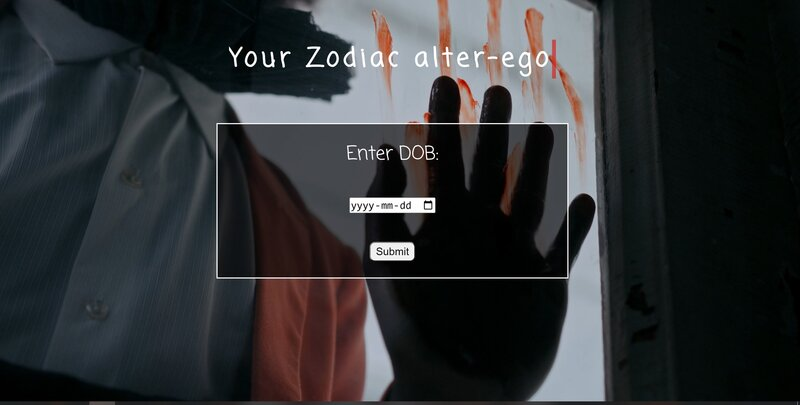
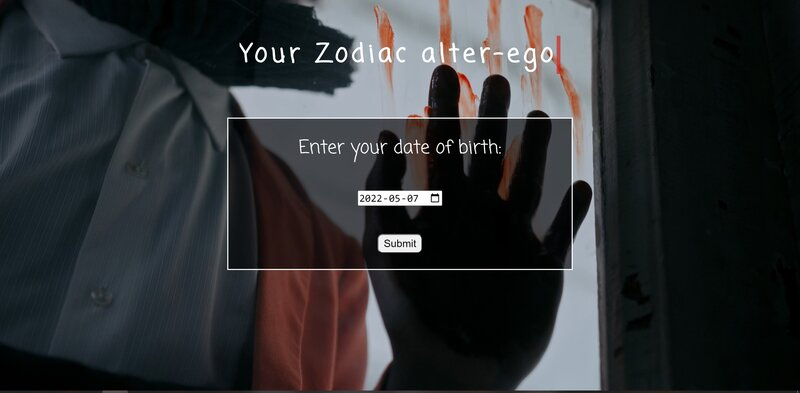
still need to fix home responsiveness

diff --git a/index.html b/index.html
@@ -13,10 +13,15 @@
       rel="stylesheet"
     />
 
-    <!-- box icons  : use Box Icons or Font Awesome-->
-    <!-- <link href='https://unpkg.com/boxicons@2.0.9/css/boxicons.min.css' rel='stylesheet'> -->
-    <script src="https://use.fontawesome.com/a375b7298d.js"></script>
-
+    <!-- Font Awesome -->
+    <link
+      rel="stylesheet"
+      href="https://cdnjs.cloudflare.com/ajax/libs/font-awesome/6.1.1/css/all.min.css"
+      integrity="sha512-KfkfwYDsLkIlwQp6LFnl8zNdLGxu9YAA1QvwINks4PhcElQSvqcyVLLD9aMhXd13uQjoXtEKNosOWaZqXgel0g=="
+      crossorigin="anonymous"
+      referrerpolicy="no-referrer"
+    />
+    <!-- Jquery and OwlCarousel  -->
     <link rel="stylesheet" href="./css/main.css" />
     <script src="https://code.jquery.com/jquery-3.5.1.js"></script>
     <script src="https://cdnjs.cloudflare.com/ajax/libs/OwlCarousel2/2.3.4/owl.carousel.min.js"></script>
@@ -68,21 +73,7 @@
                     ><i class="fab fa-linkedin"></i
                   ></a>
                 </li>
-                <li>
-                  <a href="#"
-                    ><i class="fa fa-facebook-official" aria-hidden="true"></i
-                  ></a>
-                </li>
-                <li>
-                  <a href="https://www.instagram.com/whatthefoof/?hl=en"
-                    ><i class="fab fa-instagram-square"></i
-                  ></a>
-                </li>
-                <li>
-                  <a href="https://pin.it/1WA0lvC"
-                    ><i class="fab fa-pinterest-square"></i
-                  ></a>
-                </li>
+                <!-- <li class="email active">email</li> -->
               </ul>
             </div>
           </h1>
@@ -191,10 +182,6 @@
         <div class="projects__container">
           <div class="projects__text">
             <h2 class="projects__title">Projects</h2>
-            <!-- <p>
-              Here I include a sample of the projects I have been working on
-              during my time as a Frontend student at Hyper Island student time.
-            </p> -->
           </div>
 
           <div class="wrapper">
@@ -204,14 +191,23 @@
                   <img src="img/p1.jpg" alt="project" />
                 </div>
                 <div class="content">
-                  <div class="title">Artist landing page</div>
-                  <div class="sub-title">My first take on a landing page.</div>
+                  <!-- <div class="title">Artist landing page</div> -->
+                  <div class="sub-title">Artist landing page</div>
                   <p>
-                    Lorem ipsum dolor, sit amet consectetur adipisicing elit.
-                    Quia distinctio vero asperiores delectus at tempora, quas
-                    architecto dicta ducimus placeat.
+                    For my first real project I made a minimal website with
+                    HTML, CSS and a few lines of JS for an imagined artist
+                    portfolio/ shop.
                   </p>
-                  <div class="btn"><button>Read more</button></div>
+                  <div class="btns">
+                    <a href="https://hi-01-artist-page.netlify.app/" class="btn"
+                      ><button>Preview</button></a
+                    >
+                    <a
+                      href="https://github.com/whatthefoobar/hi_01_artist_page"
+                      class="btn"
+                      ><button>Code</button></a
+                    >
+                  </div>
                 </div>
               </div>
 
@@ -220,16 +216,23 @@
                   <img src="img/p2.jpg" alt="project" />
                 </div>
                 <div class="content">
-                  <div class="title">Zodiac quizz app</div>
-                  <div class="sub-title">
-                    Deeper dive into Javascript and localStorage
-                  </div>
+                  <!-- <div class="title">Zodiac quiz app</div> -->
+                  <div class="sub-title">Zodiac app</div>
                   <p>
                     A form app that takes in your birthday and returns your age
                     in years months days , your zodiac sign and a random serial
                     killer that shares the same zodiac as you.
                   </p>
-                  <div class="btn"><button>Read more</button></div>
+                  <div class="btns">
+                    <a href="https://killer-quiz.netlify.app/" class="btn"
+                      ><button>Preview</button></a
+                    >
+                    <a
+                      href="https://github.com/whatthefoobar/killer-quiz-reuploaded"
+                      class="btn"
+                      ><button>Code</button></a
+                    >
+                  </div>
                 </div>
               </div>
 
@@ -238,10 +241,26 @@
                   <img src="img/p3.jpg" alt="project" />
                 </div>
                 <div class="content">
-                  <div class="title">News app</div>
+                  <!-- <div class="title">News app</div> -->
                   <div class="sub-title">React news app</div>
-                  <p>React news app project using New York Times Api.</p>
-                  <div class="btn"><button>Read more</button></div>
+                  <p>
+                    React news app project using New York Times Api. My first
+                    real chance to apply my React skills and navigate using a
+                    public API in the context of React.
+                  </p>
+
+                  <div class="btns">
+                    <a
+                      href="https://news-app-react-hi-project.netlify.app/"
+                      class="btn"
+                      ><button>Preview</button></a
+                    >
+                    <a
+                      href="https://github.com/whatthefoobar/hi-react-news-app"
+                      class="btn"
+                      ><button>Code</button></a
+                    >
+                  </div>
                 </div>
               </div>
 
@@ -250,14 +269,19 @@
                   <img src="img/p4s.jpg" alt="project" />
                 </div>
                 <div class="content">
-                  <div class="title">RPG Caves game</div>
-                  <div class="sub-title">Phaser game</div>
+                  <!-- <div class="title">RPG Caves game</div> -->
+                  <div class="sub-title">RPG Phaser game</div>
                   <p>
                     A top-down RPG style game, the concept inspired by Squid
                     Games requires the player to select between caves, some of
                     which are safe, others lead to player death.
                   </p>
-                  <div class="btn"><button>Read more</button></div>
+
+                  <a
+                    href="https://harry-yates.github.io/PhaserGame-RPG-Caves/"
+                    class="btn"
+                    ><button>Preview</button></a
+                  >
                 </div>
               </div>
             </div>

diff --git a/sass/main.scss b/sass/main.scss
@@ -39,7 +39,7 @@
       // }
       & img {
         width: 100%;
-        height: auto;
+        height: 80%;
         background-size: cover;
         background-repeat: no-repeat;
         border-radius: 5px;
@@ -52,27 +52,32 @@
       align-items: center;
 
       @include query(lg-tablet) {
+        height: 350px;
         position: relative;
         background-color: rgba(51, 51, 51, 0.4);
         border: 3px solid $accent-color;
-        margin-block-start: -32vh;
-        margin-inline-start: 4vh;
+        margin-block-start: -26vh;
+        margin-block-end: 3vh;
+        margin-inline-start: 5vh;
+        margin-inline-end: -3vh;
         padding: 2rem;
         z-index: 10;
       }
       @include query(tablet) {
         grid-template-columns: 1fr;
       }
-      // @include query(sm-tablet) {
-      //   position: relative;
-      //   background-color: rgba(51, 51, 51, 0.4);
-
-      //   border: 3px solid $accent-color;
-      //   margin-block-start: -25vh;
-      //   margin-inline-start: 4vh;
-      //   padding: 2rem;
-      //   z-index: 10;
-      // }
+      @include query(sm-tablet) {
+        height: 350px;
+        position: relative;
+        background-color: rgba(51, 51, 51, 0.4);
+        border: 3px solid $accent-color;
+        margin-block-start: -26vh;
+        // margin-block-end: 3vh;
+        margin-inline-start: 4vh;
+        margin-inline-end: -3vh;
+        padding: 2rem;
+        z-index: 10;
+      }
 
       @include query(mobile) {
         border: 3px solid $accent-color;
@@ -137,6 +142,23 @@
           font-size: 27px;
           color: $secondary-color;
         }
+        // & .email {
+        //   font-size: 1.7rem;
+        //   color: $accent-color;
+        //   background-color: $primary-color;
+        //   border: 2px solid $accent-color;
+        //   padding: 0 5px;
+        //   border-radius: 5px;
+        //   display: flex;
+        //   justify-content: center;
+        //   align-items: center;
+
+        //   &.active {
+        //     display: inline;
+        //     text-align: center;
+        //     width: 200px;
+        //   }
+        // }
         & a {
           position: relative;
           display: block;

diff --git a/css/main.css b/css/main.css
@@ -488,6 +488,15 @@ img {
   font-size: 1.6rem;
 }
 
+.projects__container .slider .card .content .btns {
+  display: -webkit-box;
+  display: -ms-flexbox;
+  display: flex;
+  -webkit-box-pack: space-evenly;
+      -ms-flex-pack: space-evenly;
+          justify-content: space-evenly;
+}
+
 .projects__container .slider .card .content .btn {
   display: block;
   text-align: left;
@@ -781,7 +790,7 @@ img {
 
 .main-intro__image img {
   width: 100%;
-  height: auto;
+  height: 80%;
   background-size: cover;
   background-repeat: no-repeat;
   border-radius: 5px;
@@ -800,13 +809,18 @@ img {
 
 @media (max-width: 850px) {
   .main-intro__text {
+    height: 350px;
     position: relative;
     background-color: rgba(51, 51, 51, 0.4);
     border: 3px solid #e2eb86;
-    -webkit-margin-before: -32vh;
-            margin-block-start: -32vh;
-    -webkit-margin-start: 4vh;
-            margin-inline-start: 4vh;
+    -webkit-margin-before: -26vh;
+            margin-block-start: -26vh;
+    -webkit-margin-after: 3vh;
+            margin-block-end: 3vh;
+    -webkit-margin-start: 5vh;
+            margin-inline-start: 5vh;
+    -webkit-margin-end: -3vh;
+            margin-inline-end: -3vh;
     padding: 2rem;
     z-index: 10;
   }
@@ -816,6 +830,23 @@ img {
   .main-intro__text {
     -ms-grid-columns: 1fr;
         grid-template-columns: 1fr;
+  }
+}
+
+@media (max-width: 620px) {
+  .main-intro__text {
+    height: 350px;
+    position: relative;
+    background-color: rgba(51, 51, 51, 0.4);
+    border: 3px solid #e2eb86;
+    -webkit-margin-before: -26vh;
+            margin-block-start: -26vh;
+    -webkit-margin-start: 4vh;
+            margin-inline-start: 4vh;
+    -webkit-margin-end: -3vh;
+            margin-inline-end: -3vh;
+    padding: 2rem;
+    z-index: 10;
   }
 }
 

diff --git a/sass/_projects.scss b/sass/_projects.scss
@@ -67,6 +67,11 @@
             font-size: 1.6rem;
           }
 
+          .btns {
+            display: flex;
+            justify-content: space-evenly;
+          }
+
           & .btn {
             display: block;
             text-align: left;
